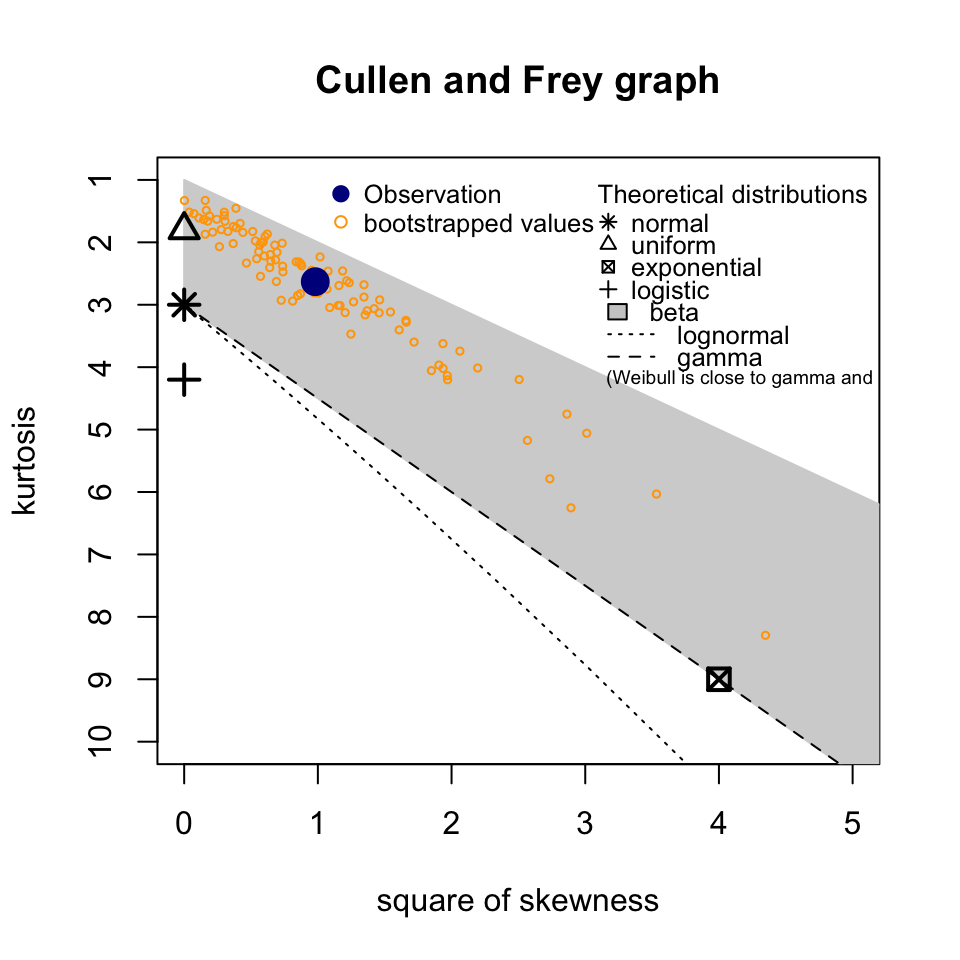
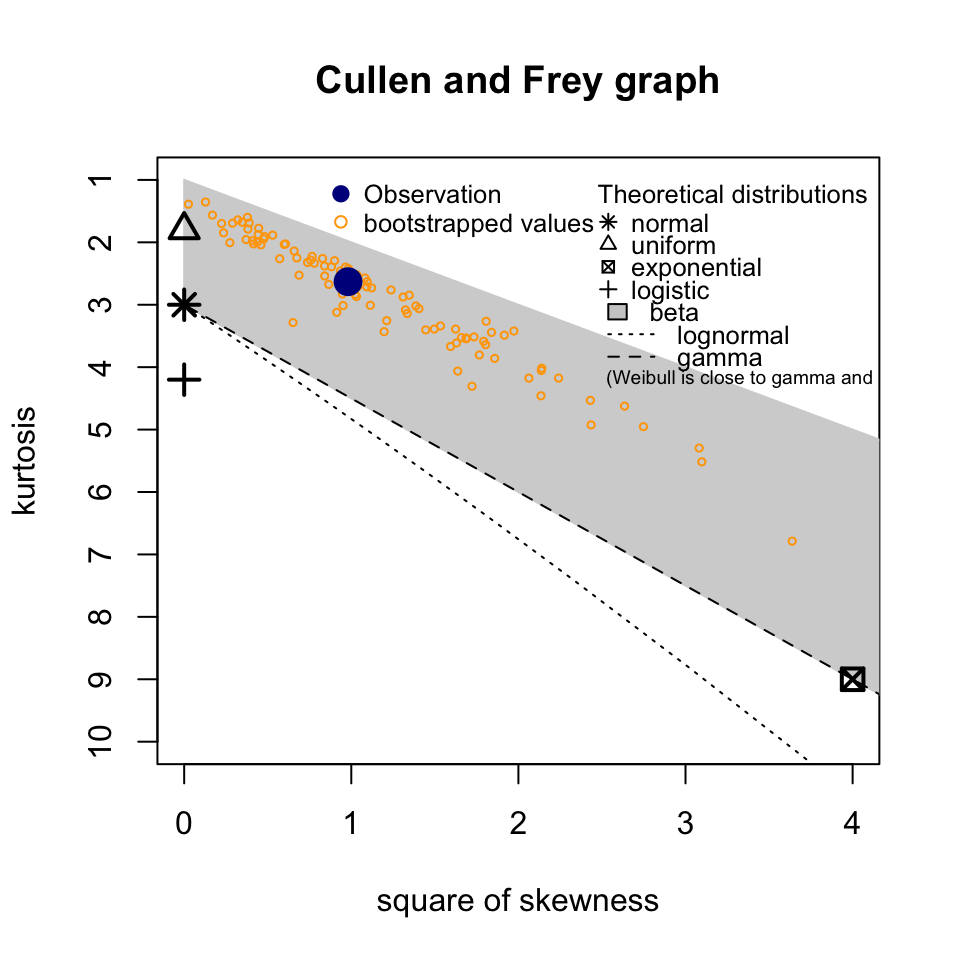
exposure plots set.seed

diff --git a/docs/articles/exposure-plots.html b/docs/articles/exposure-plots.html
@@ -128,8 +128,8 @@
 <p>The <em>ssdtools</em> package contains a function <em>ssd_exposure</em> that computes the risk as defined by Verdonck et al (2003) representing the average proportion of species at risk.</p>
 <div class="sourceCode" id="cb4"><pre class="sourceCode r"><code class="sourceCode r"><span id="cb4-1"><a href="#cb4-1"></a>ex.risk &lt;-<span class="st"> </span><span class="kw"><a href="../reference/ssd_exposure.html">ssd_exposure</a></span>(fit, <span class="dt">meanlog =</span> ex.mean.log, <span class="dt">sdlog =</span> ex.sd.log)</span>
 <span id="cb4-2"><a href="#cb4-2"></a>ex.risk</span></code></pre></div>
-<pre><code>## [1] 0.005917484</code></pre>
-<p>The risk of 0.00592 can also be added to the plot in the usual way:</p>
+<pre><code>## [1] 0.006141225</code></pre>
+<p>The risk of 0.00614 can also be added to the plot in the usual way:</p>
 <div class="sourceCode" id="cb6"><pre class="sourceCode r"><code class="sourceCode r"><span id="cb6-1"><a href="#cb6-1"></a>fit.plot <span class="op">+</span><span class="st"> </span><span class="kw">geom_line</span>(<span class="dt">dat =</span> ex.cdf, <span class="kw">aes</span>(<span class="dt">x =</span> Conc, <span class="dt">y =</span> ex.cdf), <span class="dt">color =</span> <span class="st">"red"</span>, <span class="dt">size =</span> <span class="dv">2</span>) <span class="op">+</span></span>
 <span id="cb6-2"><a href="#cb6-2"></a><span class="st">  </span><span class="kw">annotate</span>(<span class="st">"text"</span>,</span>
 <span id="cb6-3"><a href="#cb6-3"></a>    <span class="dt">label =</span> <span class="kw"><a href="https://rdrr.io/r/base/paste.html">paste</a></span>(<span class="st">"Exposure distribution"</span>),</span>
